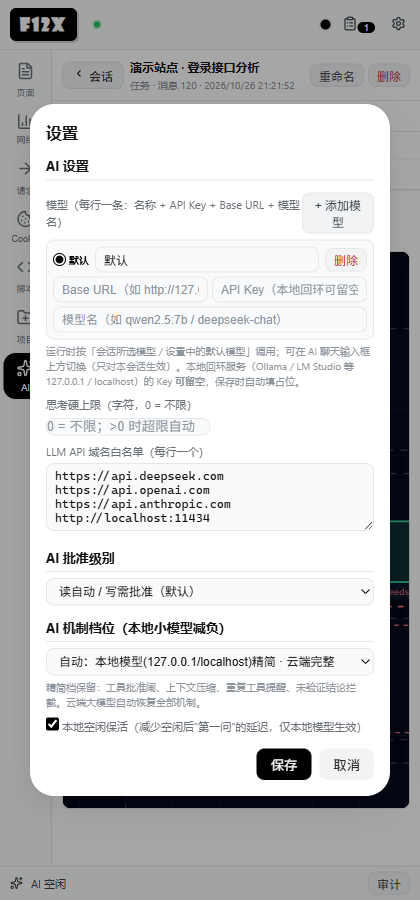
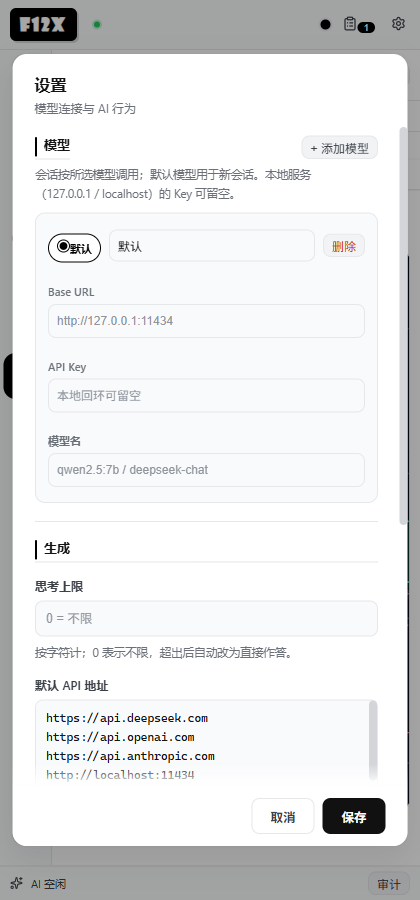
style: 重做设置页布局与文案（仪表式分组 / 固定操作栏）
- 弹层改为 404px 仪表式布局：标题 + 副标题、模型/生成/行为三段分组（左侧 2px 强调线 + 一句说明），底部固定操作栏
- 字段统一常驻标签 + 36px 输入框 + 焦点环；说明文字独立成行（11.5px / 1.65 行高），不再挤在标签里
- 模型行重排：默认胶囊 + 名称 + 删除在顶部，Base URL / API Key / 模型名改为带标签的三行输入
- 操作栏加滚动渐隐、按钮改为"取消 / 保存"并统一高度；尊重 prefers-reduced-motion
- 修正文案：LLM 地址列表实际是"默认 API 地址"回退（首个），不是白名单；同步手册
验证：dev/run.mjs 75/75；真实 UI：弹层 395px 宽、页脚可见、无横向溢出、输入框 36px、三段标题与五个字段标签齐全、添加/保存/重开名称保留、0 pageerror；截图 17-settings 重生成。

Changed region(s): [[0.031, 0.0622, 0.9905, 0.9644], [0.7429, 0.1556, 0.8976, 0.1867], [0.8667, 0.56, 0.8976, 0.5911]]

diff --git a/sidepanel/styles.css b/sidepanel/styles.css
@@ -560,25 +560,93 @@ body.resizing-h { cursor: ew-resize !important; user-select: none; }
   border-radius: var(--radius-xs); padding: 5px 8px; font-size: 12px; outline: none;
 }
 .overlay-content textarea { resize: vertical; font-family: var(--mono); }
-.settings-actions { display: flex; justify-content: flex-end; gap: 8px; margin-top: 14px; }
-.settings-actions button {
-  background: #000; color: #fff; border: none; border-radius: var(--radius-xs); padding: 6px 14px; cursor: pointer;
+/* 设置页：仪表式布局（分组留白 / 常驻标签 / 固定操作栏） */
+.settings-sheet {
+  padding: 0; width: 404px; max-width: 94vw; max-height: 88vh; overflow: hidden;
+  display: flex; flex-direction: column; border-radius: 14px;
+  animation: set-in .16s ease-out;
 }
-.settings-actions button.secondary { background: var(--surface-3); color: var(--text-1); }
-.overlay-content .mini-label { margin: 10px 0; }
-/* 设置：模型列表（添加/删除/设默认） */
-.settings-model-head { display: flex; align-items: center; justify-content: space-between; margin: 12px 0 2px; }
-.settings-model-head span { font-size: 11px; color: var(--text-3); }
-.settings-models { display: flex; flex-direction: column; gap: 6px; margin: 6px 0 2px; }
-.settings-model-row { border: 1px solid var(--surface-4); background: var(--surface-2); border-radius: var(--radius-xs); padding: 6px; display: flex; flex-direction: column; gap: 4px; }
-.settings-model-top { display: flex; align-items: center; gap: 6px; }
-.settings-model-top .smr-def { display: flex; align-items: center; gap: 3px; font-size: 10px; white-space: nowrap; color: var(--text-3); cursor: pointer; margin: 0; }
-.settings-model-top .smr-def input[type="radio"] { width: auto; margin: 0; }
-.settings-model-top .smr-def.active { color: var(--brand); font-weight: 600; }
-.settings-model-top .smr-name { flex: 1; padding: 3px 6px; font-size: 12px; }
-.settings-model-fields { display: grid; grid-template-columns: 1fr 1fr; gap: 4px; }
-.settings-model-fields .smr-model { grid-column: 1 / -1; }
-.settings-hint { font-size: 10px; color: var(--text-4); margin: 4px 0 2px; line-height: 1.5; }
+@keyframes set-in { from { opacity: 0; transform: translateY(6px) scale(.995); } }
+.set-head { padding: 18px 22px 10px; }
+.set-head h2 { font-size: 16px; font-weight: 650; margin: 0; letter-spacing: -0.01em; }
+.set-sub { margin: 3px 0 0; font-size: 12px; color: var(--text-3); }
+.set-scroll { overflow-y: auto; padding: 2px 22px 6px; }
+.set-section { padding: 16px 0 18px; border-top: 1px solid var(--surface-4); }
+.set-section:first-child { border-top: none; padding-top: 6px; }
+.set-section h3 {
+  font-size: 13px; font-weight: 650; margin: 0; padding-left: 9px; position: relative; letter-spacing: -0.01em;
+}
+.set-section h3::before {
+  content: ""; position: absolute; left: 0; top: 2px; bottom: 2px; width: 2px;
+  border-radius: 2px; background: var(--brand, #4176e6);
+}
+.set-section-head { display: flex; align-items: center; justify-content: space-between; gap: 10px; }
+.set-desc { margin: 5px 0 0; font-size: 11.5px; line-height: 1.65; color: var(--text-3); }
+.set-section > .set-desc { max-width: 52ch; }
+.set-field { margin-top: 14px; }
+.set-field label { display: block; font-size: 12px; font-weight: 600; color: var(--text-2); margin: 0 0 6px; }
+.set-field input[type="number"], .set-field input[type="text"], .set-field input[type="password"],
+.set-field select, .set-field textarea {
+  width: 100%; height: 36px; box-sizing: border-box;
+  background: var(--surface-2); border: 1px solid var(--surface-4); color: var(--text-1);
+  border-radius: 8px; padding: 0 10px; font-size: 12.5px; outline: none;
+  transition: border-color .12s, box-shadow .12s;
+}
+.set-field textarea { height: 92px; padding: 8px 10px; resize: vertical; font-family: var(--mono); font-size: 11.5px; line-height: 1.65; }
+.set-field input:focus, .set-field select:focus, .set-field textarea:focus {
+  border-color: var(--brand, #4176e6); box-shadow: 0 0 0 3px rgba(65, 118, 230, .14);
+}
+.set-field .set-desc { margin-top: 6px; }
+.set-check-row {
+  display: flex !important; align-items: center; gap: 8px; min-height: 36px; margin: 0 !important;
+  padding: 0 10px; border: 1px solid var(--surface-4); border-radius: 8px; background: var(--surface-2);
+  font-weight: 500 !important; cursor: pointer;
+}
+.set-check-row input[type="checkbox"] { width: 15px; height: 15px; margin: 0; accent-color: var(--brand, #4176e6); }
+.set-check-row span { font-size: 12.5px; color: var(--text-1); }
+.settings-models { display: flex; flex-direction: column; gap: 10px; margin-top: 10px; }
+.settings-model-row {
+  border: 1px solid var(--surface-4); background: var(--surface-2);
+  border-radius: 10px; padding: 12px; display: flex; flex-direction: column; gap: 10px;
+}
+.smr-top { display: flex; align-items: center; gap: 8px; }
+.smr-def {
+  display: inline-flex; align-items: center; gap: 4px; flex: none;
+  font-size: 11px; color: var(--text-3); cursor: pointer; margin: 0;
+  padding: 5px 8px; border: 1px solid var(--surface-4); border-radius: 999px; background: var(--surface-1);
+}
+.smr-def.active { color: var(--brand, #4176e6); border-color: var(--brand, #4176e6); font-weight: 600; }
+.smr-def input[type="radio"] { width: auto; margin: 0; accent-color: var(--brand, #4176e6); }
+.smr-name { flex: 1; min-width: 0; height: 32px; }
+.smr-top .mini-btn { flex: none; }
+.smr-fields { display: flex; flex-direction: column; gap: 9px; }
+.smr-label { display: block; font-size: 11px; font-weight: 600; color: var(--text-3); }
+.smr-label input {
+  display: block; width: 100%; height: 34px; box-sizing: border-box; margin-top: 4px;
+  background: var(--surface-1); border: 1px solid var(--surface-4); color: var(--text-1);
+  border-radius: 7px; padding: 0 9px; font-size: 12px; outline: none;
+}
+.smr-label input:focus { border-color: var(--brand, #4176e6); box-shadow: 0 0 0 3px rgba(65, 118, 230, .12); }
+.settings-actions {
+  position: relative;
+  display: flex; justify-content: flex-end; gap: 8px; flex: none;
+  padding: 12px 22px; border-top: 1px solid var(--surface-4);
+  background: var(--surface-1); border-radius: 0 0 14px 14px;
+}
+.settings-actions::before {
+  content: ""; position: absolute; left: 0; right: 0; top: -22px; height: 22px;
+  background: linear-gradient(to bottom, rgba(255,255,255,0), var(--surface-1));
+  pointer-events: none;
+}
+.settings-actions button {
+  height: 36px; padding: 0 18px; border-radius: 8px; font-size: 12.5px; font-weight: 600;
+  cursor: pointer; border: 1px solid transparent; transition: background .12s, border-color .12s;
+}
+.settings-actions button.primary { background: #111; color: #fff; }
+.settings-actions button.primary:hover { background: #000; }
+.settings-actions button.secondary { background: transparent; color: var(--text-2); border-color: var(--surface-4); }
+.settings-actions button.secondary:hover { background: var(--surface-2); }
+@media (prefers-reduced-motion: reduce) { .settings-sheet { animation: none; } }
 
 /* ---------- 通用弹层（modal-root） ---------- */
 .modal-overlay {

diff --git a/sidepanel/index.html b/sidepanel/index.html
@@ -440,39 +440,67 @@
 
     <!-- ========== 设置弹层 ========== -->
     <div id="settings-panel" class="overlay hidden">
-      <div class="overlay-content">
-        <h2>设置</h2>
-        <h3>AI 设置</h3>
-        <div class="settings-model-head">
-          <span>模型（每行一条：名称 + API Key + Base URL + 模型名）</span>
-          <button id="settings-model-add" class="mini-btn" type="button">+ 添加模型</button>
-        </div>
-        <div id="settings-models" class="settings-models"></div>
-        <div class="settings-hint">运行时按「会话所选模型 / 设置中的默认模型」调用；可在 AI 聊天输入框上方切换（只对本会话生效）。本地回环服务（Ollama / LM Studio 等 127.0.0.1 / localhost）的 Key <b>可留空</b>，保存时自动填占位。</div>
-        <label>思考硬上限（字符，0 = 不限）</label>
-        <input id="settings-thinklimit" type="number" min="0" step="100" placeholder="0 = 不限；>0 时超限自动改直接作答" />
-        <label>LLM API 域名白名单（每行一个）</label>
-        <textarea id="settings-llm" rows="4">https://api.deepseek.com
+      <div class="overlay-content settings-sheet" role="dialog" aria-modal="true" aria-label="设置">
+        <header class="set-head">
+          <h2>设置</h2>
+          <p class="set-sub">模型连接与 AI 行为</p>
+        </header>
+        <div class="set-scroll">
+          <section class="set-section">
+            <div class="set-section-head">
+              <h3>模型</h3>
+              <button id="settings-model-add" class="mini-btn" type="button">+ 添加模型</button>
+            </div>
+            <p class="set-desc">会话按所选模型调用；默认模型用于新会话。本地服务（127.0.0.1 / localhost）的 Key 可留空。</p>
+            <div id="settings-models" class="settings-models"></div>
+          </section>
+
+          <section class="set-section">
+            <h3>生成</h3>
+            <div class="set-field">
+              <label for="settings-thinklimit">思考上限</label>
+              <input id="settings-thinklimit" type="number" min="0" step="100" placeholder="0 = 不限" />
+              <p class="set-desc">按字符计；0 表示不限，超出后自动改为直接作答。</p>
+            </div>
+            <div class="set-field">
+              <label for="settings-llm">默认 API 地址</label>
+              <textarea id="settings-llm" rows="4" spellcheck="false">https://api.deepseek.com
 https://api.openai.com
 https://api.anthropic.com
 http://localhost:11434</textarea>
-        <h3>AI 批准级别</h3>
-        <select id="settings-approval">
-          <option value="read_auto_write_approve">读自动 / 写需批准（默认）</option>
-          <option value="full_auto">全部自动</option>
-          <option value="all_approve">全部需批准</option>
-        </select>
-        <h3>AI 机制档位（本地小模型减负）</h3>
-        <select id="settings-guard">
-          <option value="auto">自动：本地模型(127.0.0.1/localhost)精简 · 云端完整</option>
-          <option value="lite">始终精简（关闭 对抗审查/专家复核/强制探测/plan 收尾硬门）</option>
-          <option value="full">始终完整（全部云端机制）</option>
-        </select>
-        <div class="settings-hint">精简档保留：工具批准闸、上下文压缩、重复工具提醒、未验证结论拦截。云端大模型自动恢复全部机制。</div>
-        <label class="mini-inline" style="margin:8px 0 2px" title="Arc iGPU+Vulkan 空闲后首个请求有数秒~数十秒唤醒延迟；开启后空闲期每 40s 发一次 1-token 极小请求保持活跃"><input type="checkbox" id="settings-localwarm" checked /> 本地空闲保活（减少空闲后“第一问”的延迟，仅本地模型生效）</label>
+              <p class="set-desc">每行一个；首个作为未填 Base URL 时的默认地址，实际请求以模型行的 Base URL 为准。</p>
+            </div>
+          </section>
+
+          <section class="set-section">
+            <h3>行为</h3>
+            <div class="set-field">
+              <label for="settings-approval">写操作批准</label>
+              <select id="settings-approval">
+                <option value="read_auto_write_approve">读自动 / 写需批准（默认）</option>
+                <option value="full_auto">全部自动</option>
+                <option value="all_approve">全部需批准</option>
+              </select>
+              <p class="set-desc">工具执行前是否需要你确认；默认只读自动、写操作需批准。</p>
+            </div>
+            <div class="set-field">
+              <label for="settings-guard">运行档位</label>
+              <select id="settings-guard">
+                <option value="auto">自动：本地精简 · 云端完整</option>
+                <option value="lite">始终精简（关闭对抗审查 / 专家复核 / 强制探测 / plan 收尾硬门）</option>
+                <option value="full">始终完整（全部云端机制）</option>
+              </select>
+              <p class="set-desc">精简档适合本地小模型；云端大模型建议完整档。</p>
+            </div>
+            <div class="set-field set-check">
+              <label class="set-check-row" for="settings-localwarm"><input type="checkbox" id="settings-localwarm" checked /> <span>本地空闲保活</span></label>
+              <p class="set-desc">仅本地模型生效：空闲时每 40 秒发一次极小请求，减少空闲后首问的等待。</p>
+            </div>
+          </section>
+        </div>
         <div class="settings-actions">
-          <button id="settings-save" class="primary">保存</button>
-          <button id="settings-cancel" class="secondary">取消</button>
+          <button id="settings-cancel" class="secondary" type="button">取消</button>
+          <button id="settings-save" class="primary" type="button">保存</button>
         </div>
       </div>
     </div>

diff --git a/sidepanel/panel.js b/sidepanel/panel.js
@@ -3342,15 +3342,15 @@ function settingsModelsRender() {
   if (!modelsCache.some(m => m.id === modelActiveId)) modelActiveId = modelsCache[0].id;
   wrap.innerHTML = modelsCache.map((m, idx) => `
     <div class="settings-model-row">
-      <div class="settings-model-top">
+      <div class="smr-top">
         <label class="smr-def ${m.id === modelActiveId ? "active" : ""}" title="设为默认（新会话跟随；本设置页内即改即生效）"><input type="radio" name="smr-default" value="${esc(m.id)}" ${m.id === modelActiveId ? "checked" : ""} />默认</label>
-        <input class="text-input smr-name" type="text" placeholder="名称（如 DeepSeek / 本地 Qwen）" value="${esc(m.name || "")}" data-idx="${idx}" data-f="name" />
+        <input class="text-input smr-name" type="text" placeholder="模型名称（如 DeepSeek / 本地 Qwen）" value="${esc(m.name || "")}" data-idx="${idx}" data-f="name" />
         <button type="button" class="mini-btn danger" data-del="${idx}" title="删除该模型">删除</button>
       </div>
-      <div class="settings-model-fields">
-        <input class="text-input" type="text" placeholder="Base URL（如 http://127.0.0.1:11434）" value="${esc(m.baseUrl || "")}" data-idx="${idx}" data-f="baseUrl" />
-        <input class="text-input" type="password" placeholder="API Key（本地回环可留空）" value="${esc(m.apiKey || "")}" data-idx="${idx}" data-f="apiKey" />
-        <input class="text-input smr-model" type="text" placeholder="模型名（如 qwen2.5:7b / deepseek-chat）" value="${esc(m.model || "")}" data-idx="${idx}" data-f="model" />
+      <div class="smr-fields">
+        <label class="smr-label">Base URL<input class="text-input" type="text" placeholder="http://127.0.0.1:11434" value="${esc(m.baseUrl || "")}" data-idx="${idx}" data-f="baseUrl" /></label>
+        <label class="smr-label">API Key<input class="text-input" type="password" placeholder="本地回环可留空" value="${esc(m.apiKey || "")}" data-idx="${idx}" data-f="apiKey" /></label>
+        <label class="smr-label">模型名<input class="text-input" type="text" placeholder="qwen2.5:7b / deepseek-chat" value="${esc(m.model || "")}" data-idx="${idx}" data-f="model" /></label>
       </div>
     </div>`).join("");
   wrap.querySelectorAll("input").forEach((inp) => {
